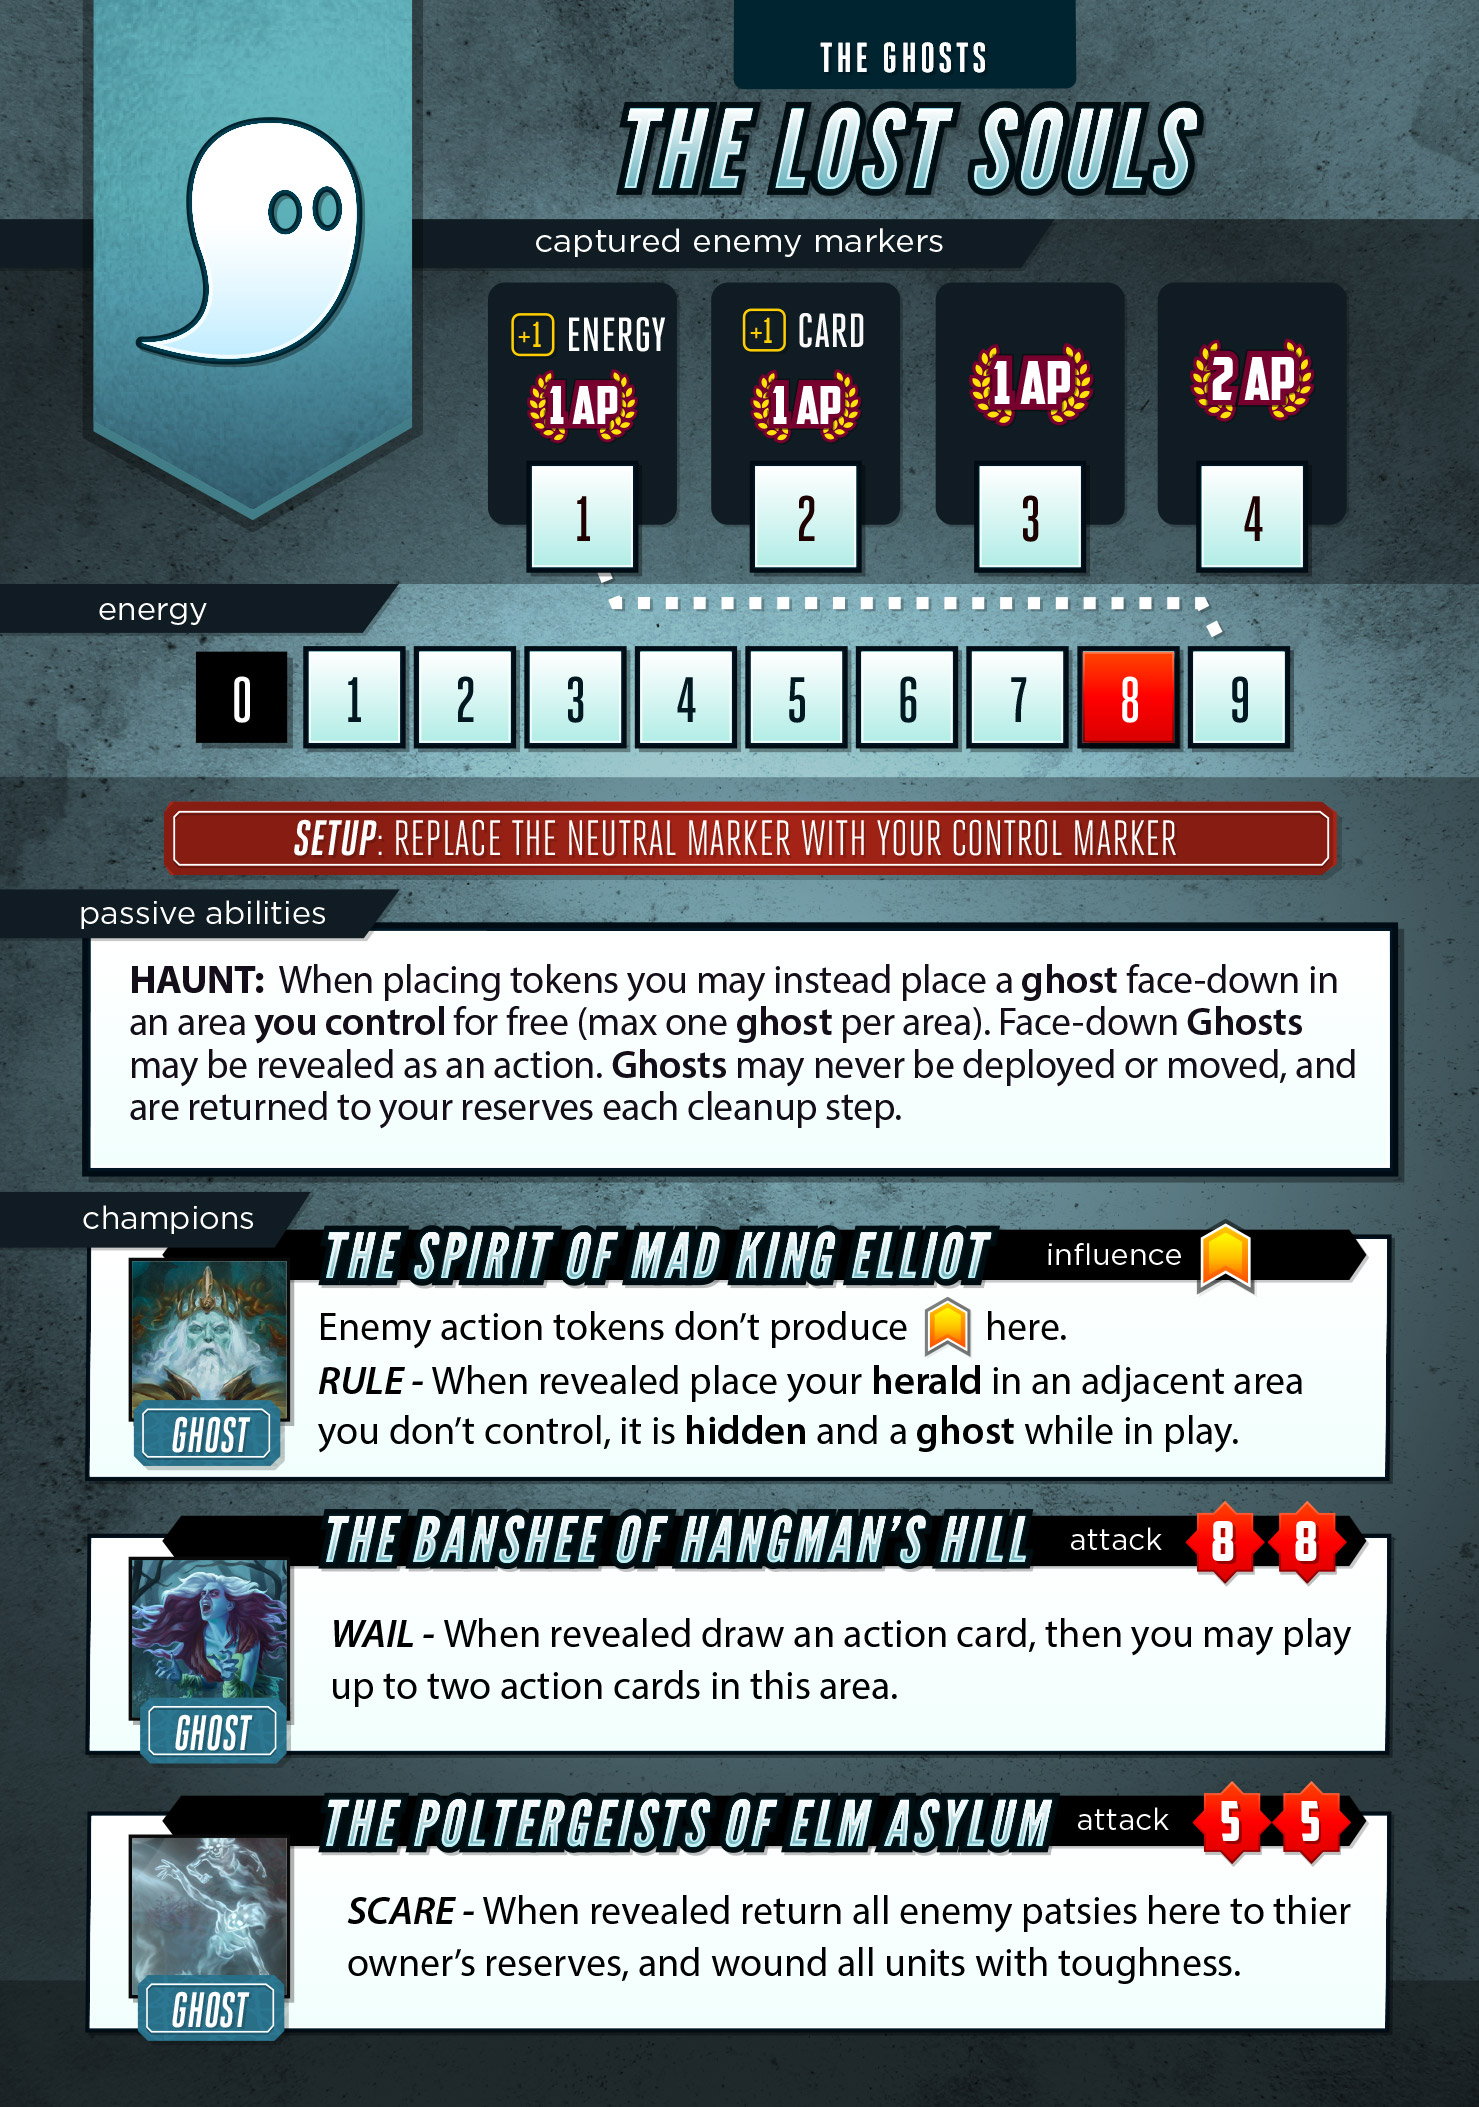
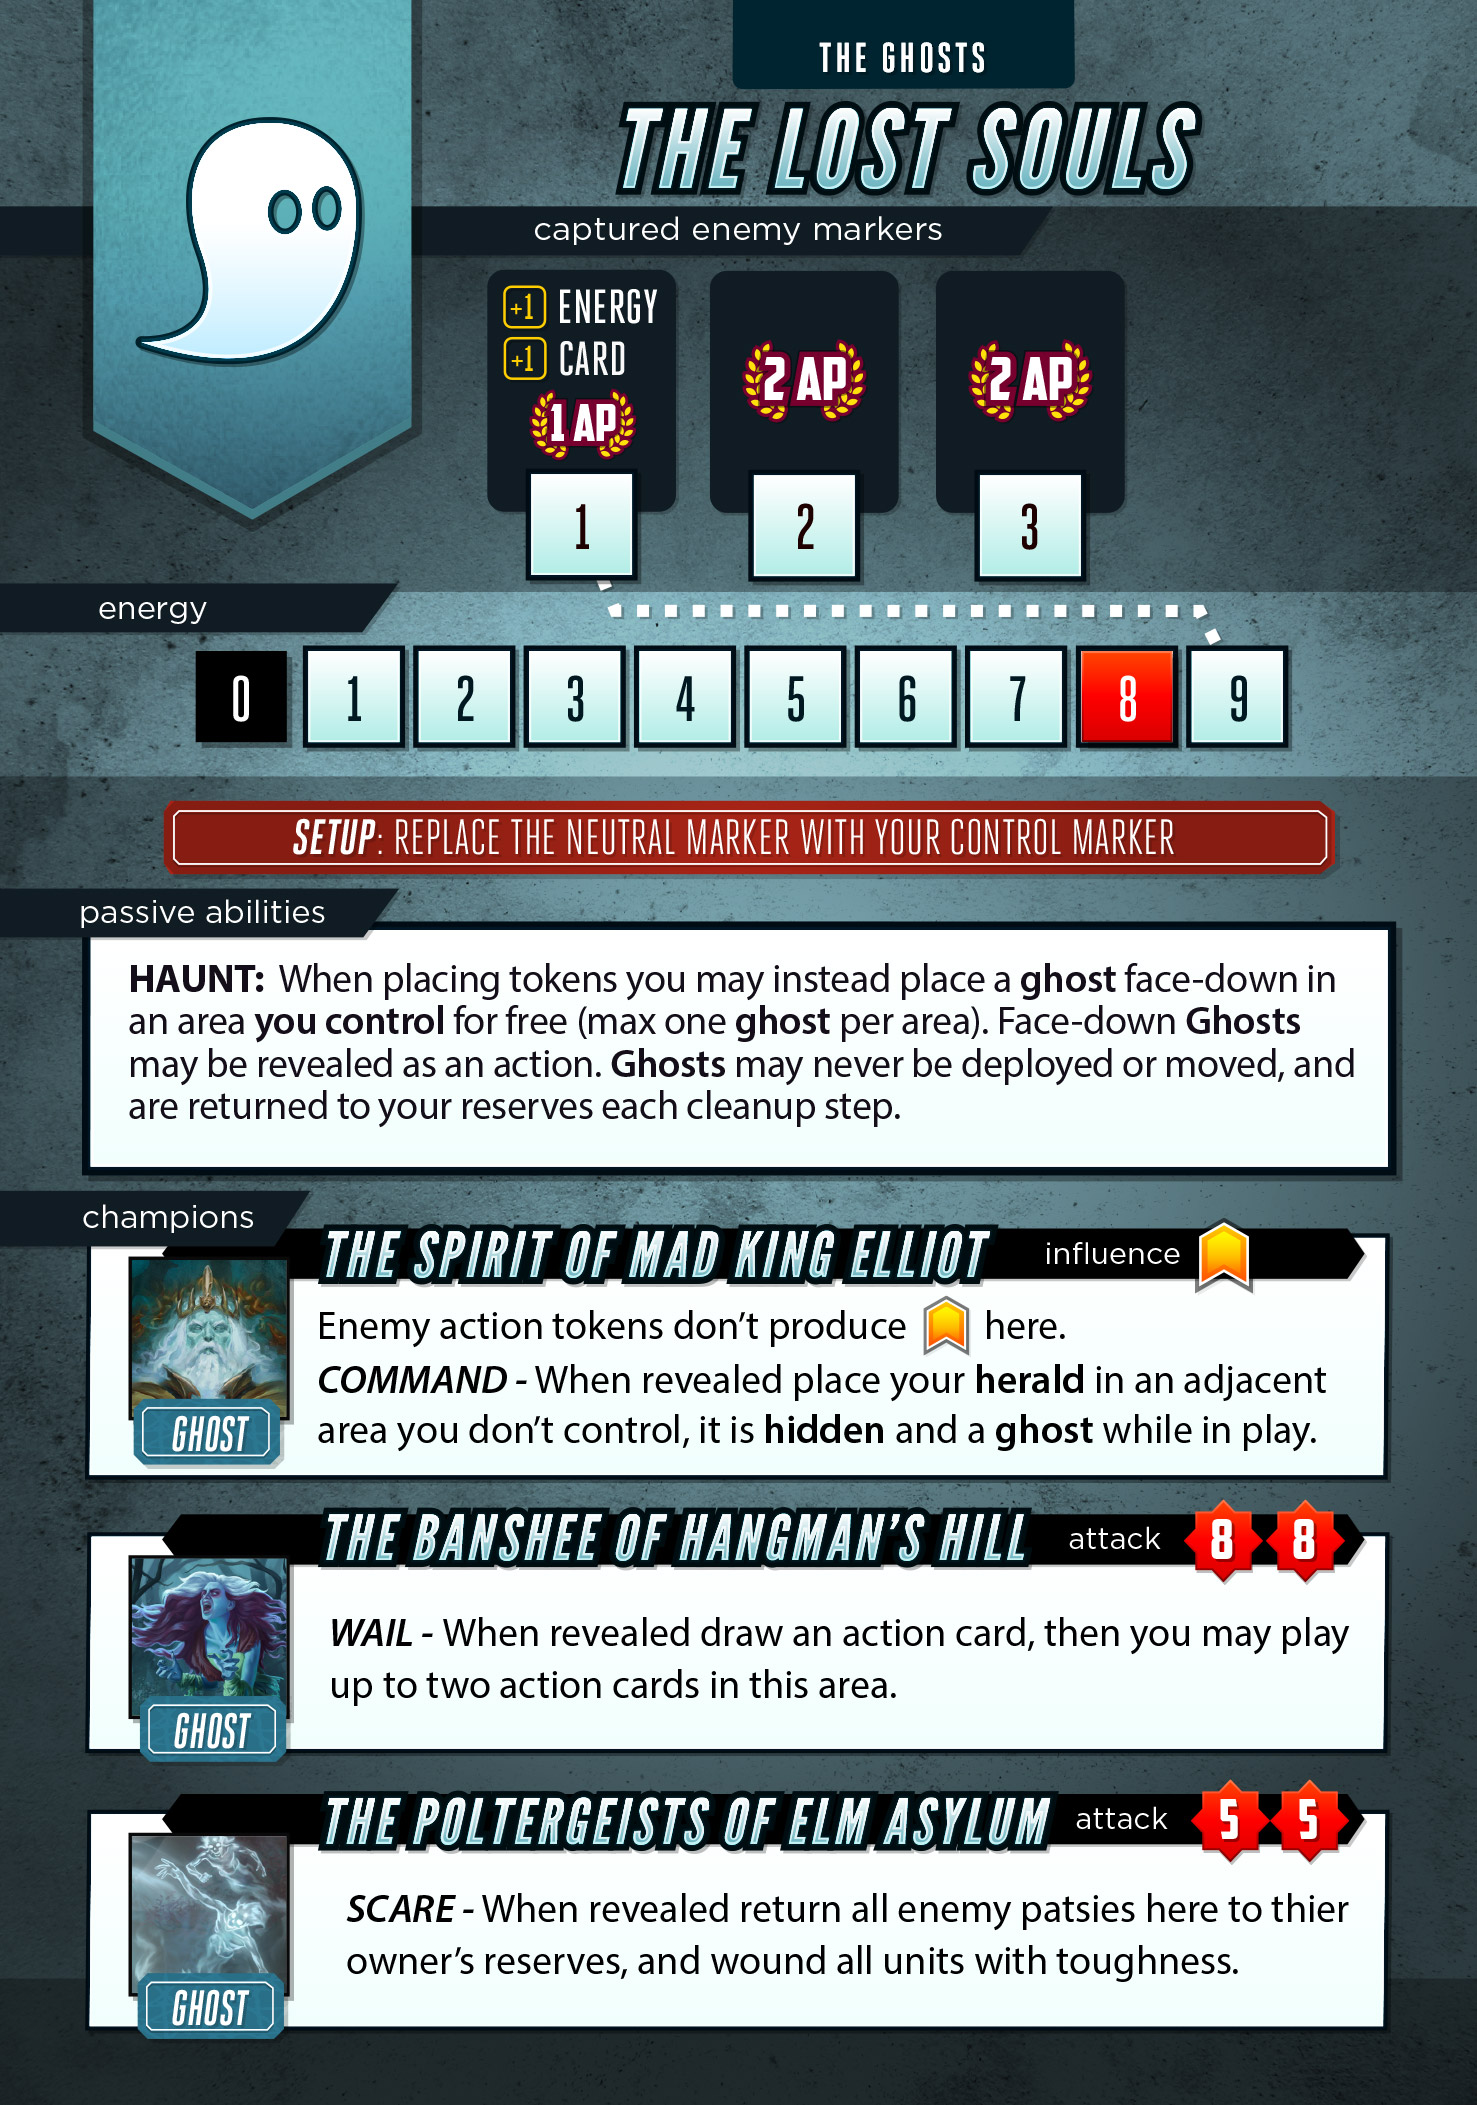
GHOSTS: Compress captured marker track

diff --git a/server/classes/factions/Ghosts.js b/server/classes/factions/Ghosts.js
@@ -26,6 +26,12 @@ class Ghosts extends Faction {
             props : ['attack', 'influence']
         };
 
+        this.capturedRewards = [
+            { ap : 1, maxEnergy : 1, cardDraw : 1 },
+            { ap : 2 },
+            { ap : 2 },
+        ];
+
         this.units['mad-king'] = {
             count: 1,
             data: {
@@ -43,6 +49,7 @@ class Ghosts extends Faction {
                 blockEnemyTokenInfluence: true,
                 hitsAssigned: 0,
                 onUnflip: 'placeHerald',
+                hidden: false,
                 ghost : true,
                 description: "Enemy tokens don't produce xIx in this area, Rule: When revealed place your herald in this or an adjacent area"
             }
@@ -80,6 +87,7 @@ class Ghosts extends Faction {
                 killed: false,
                 flipped: false,
                 selected: false,
+                hidden: false,
                 onUnflip: "bansheeWail",
                 hitsAssigned: 0,
                 ghost : true,
@@ -102,6 +110,7 @@ class Ghosts extends Faction {
                 killed: false,
                 flipped: false,
                 selected: false,
+                hidden: false,
                 onUnflip: "scareUnits",
                 hitsAssigned: 0,
                 ghost : true,
